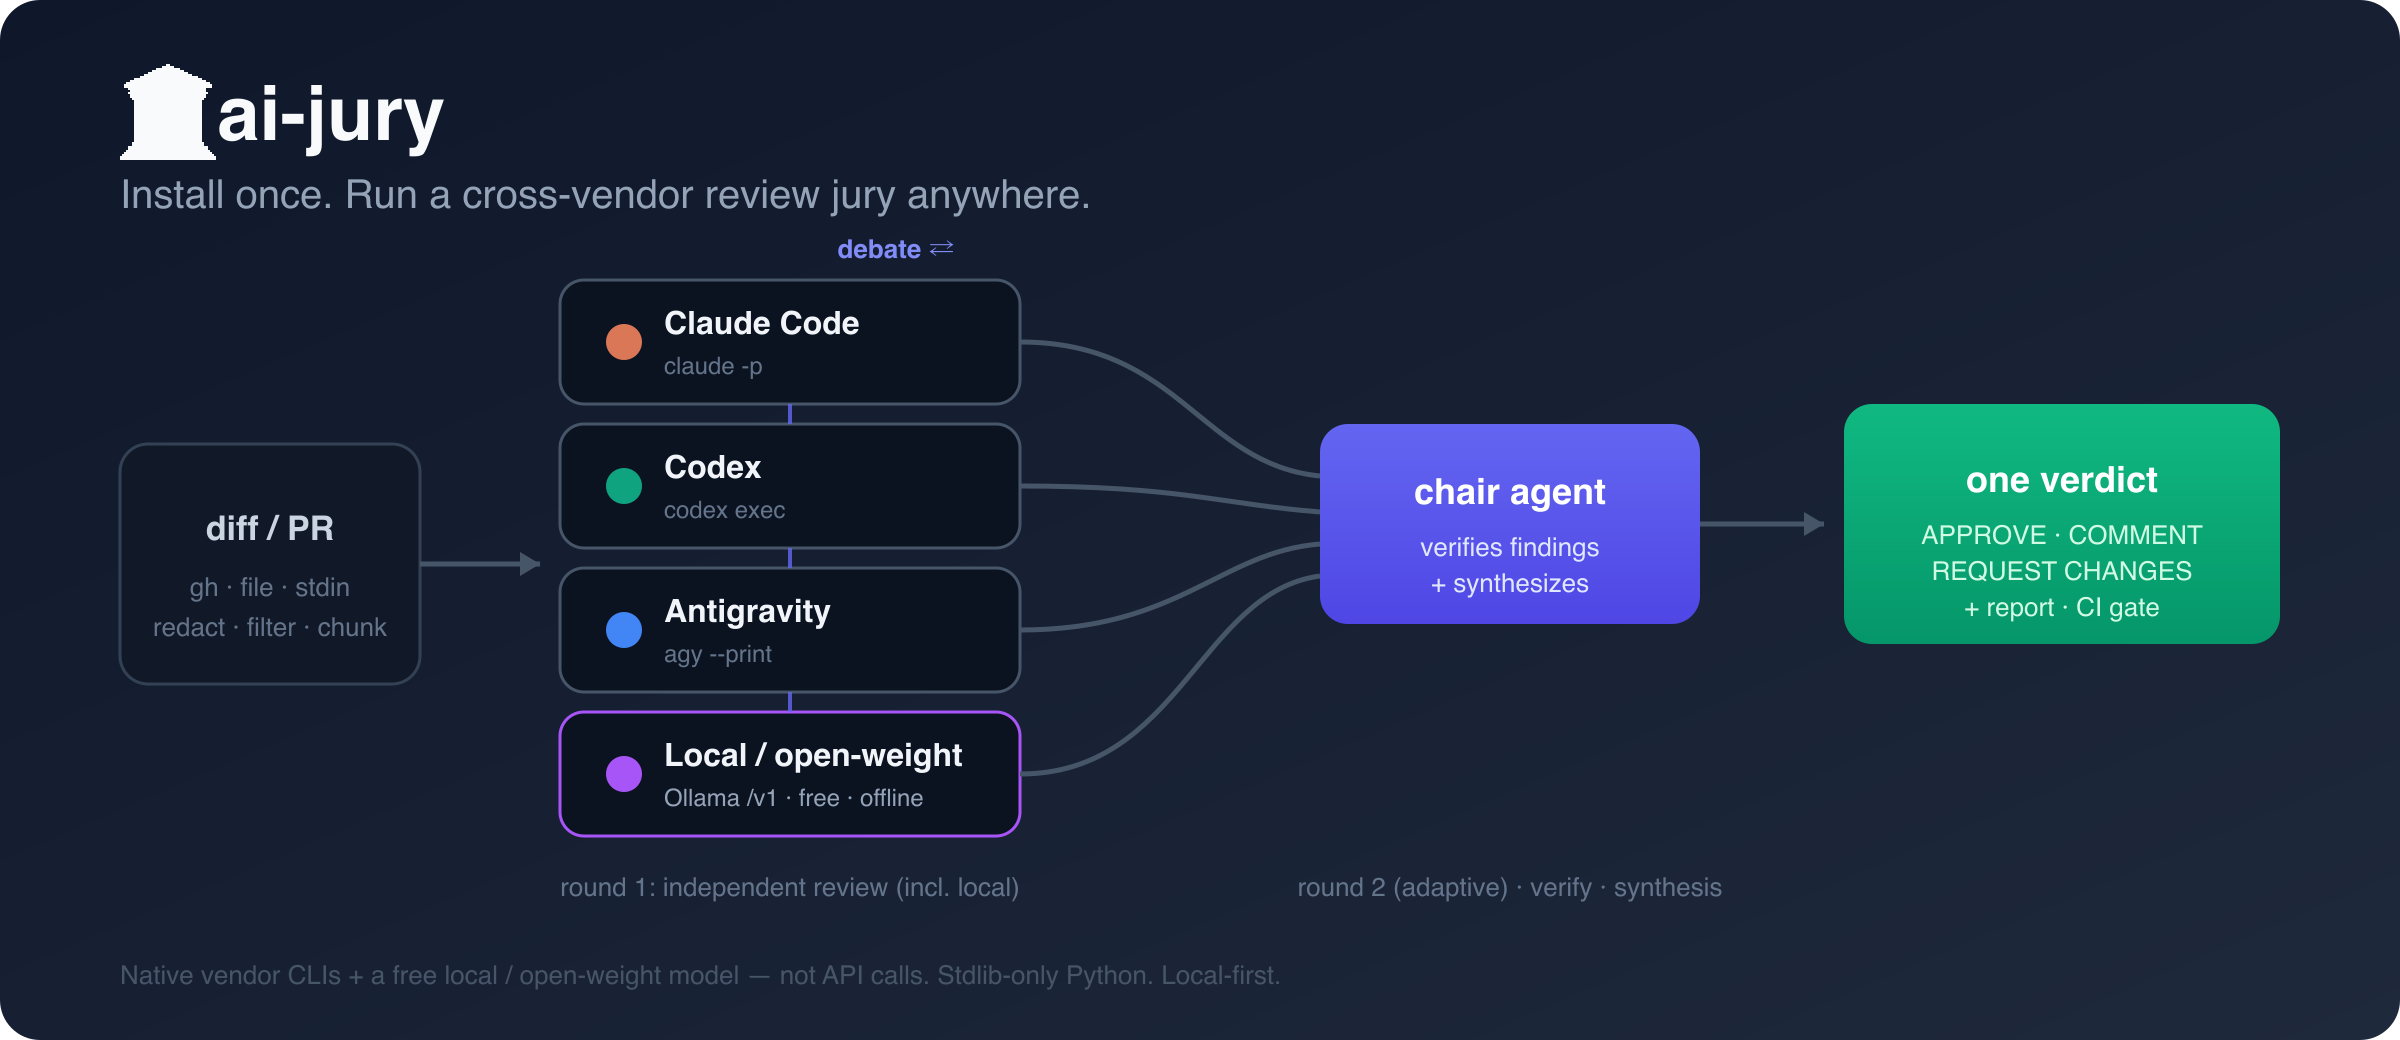
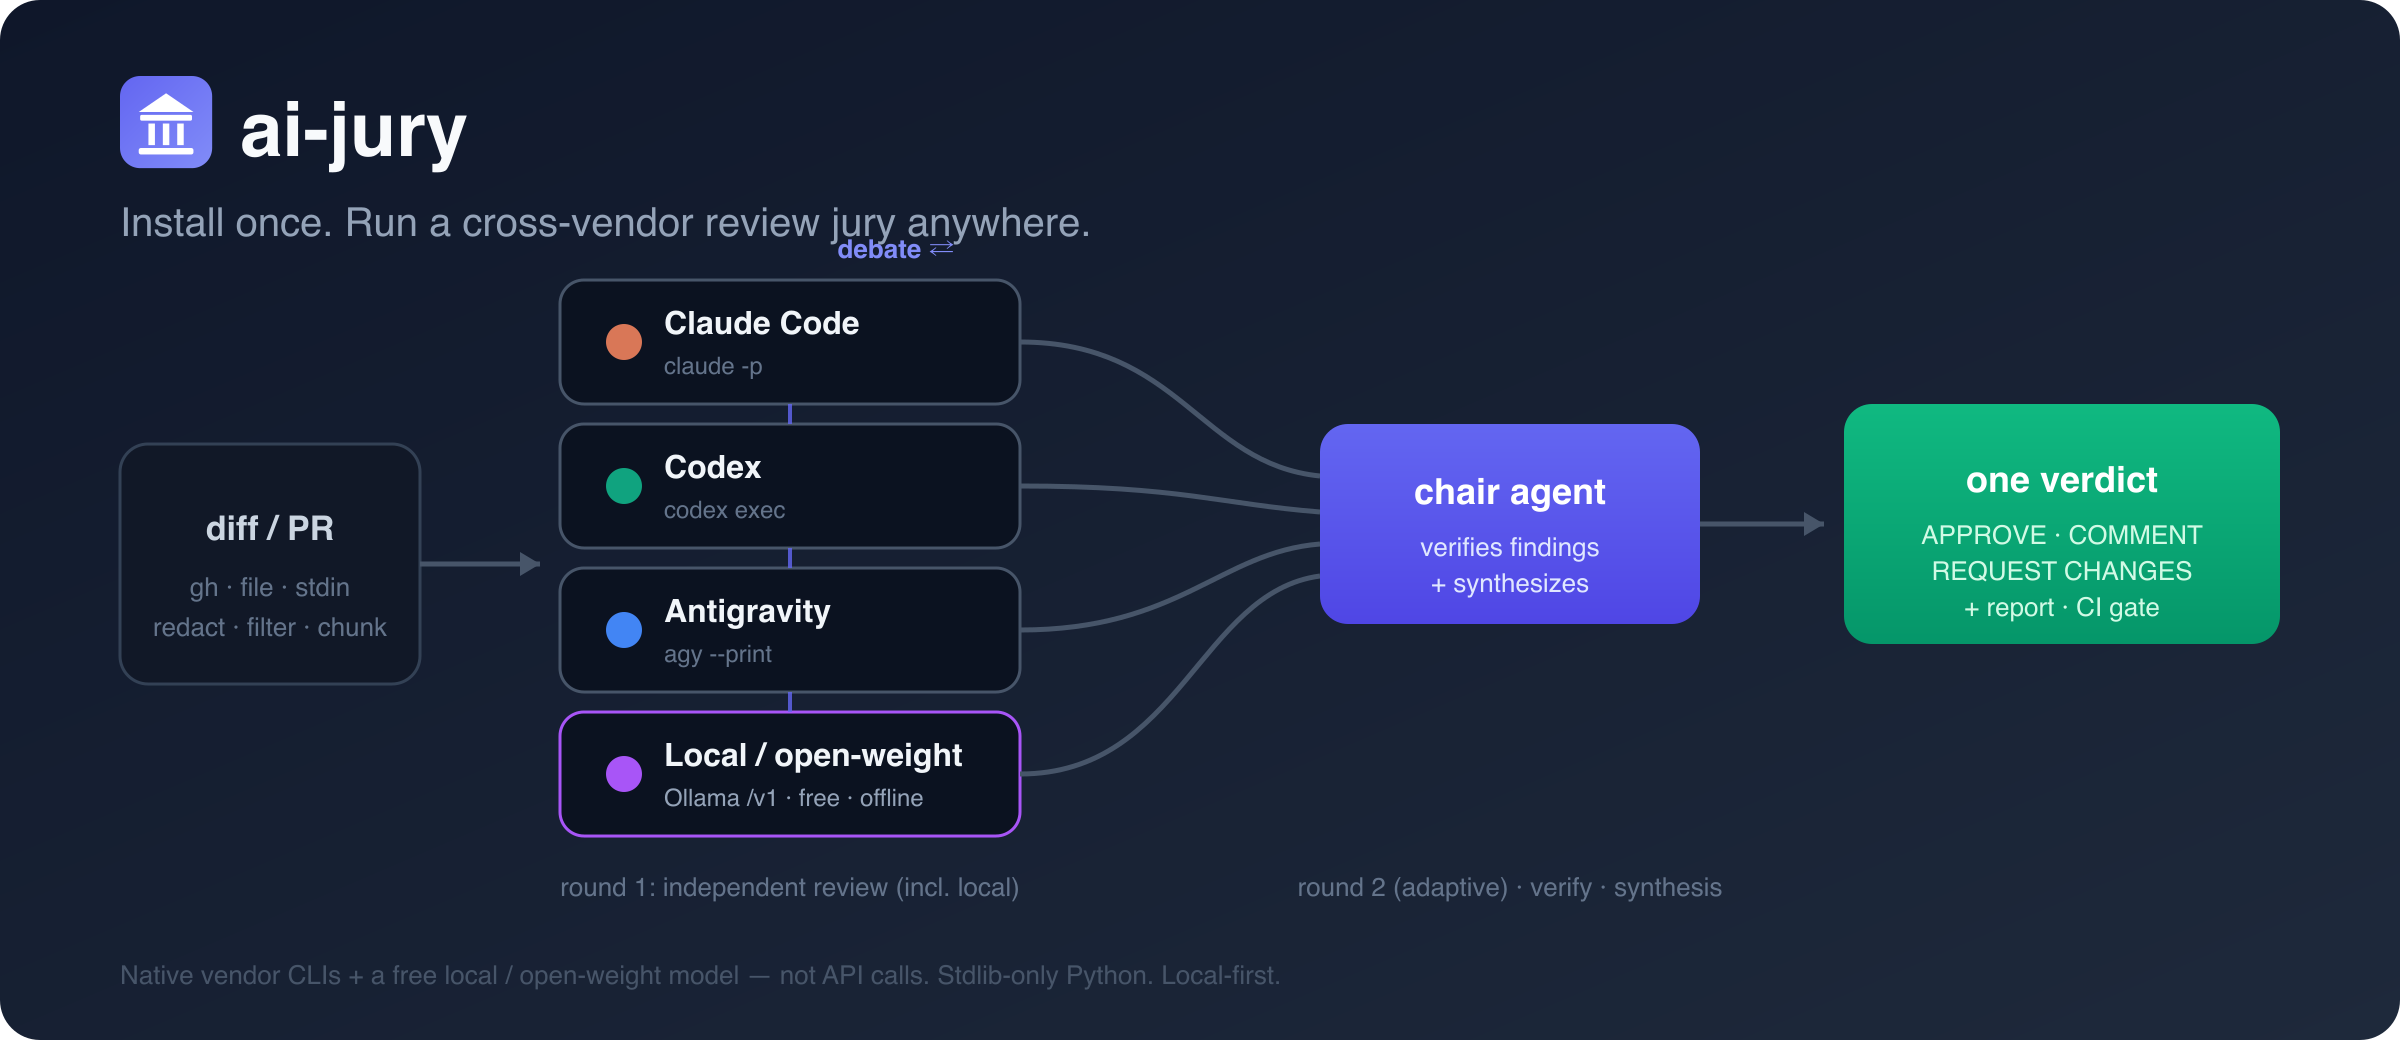
website/docs: config section, brand mark in hero+README, asset pipeline
Closes #133 and #132 (and finishes the launch polish).

- Brand mark: replace the 🏛 emoji with the custom favicon mark (indigo
  courthouse) in the hero wordmark, the site nav brand, and the README title —
  one consistent logo everywhere.
- Config discoverability (#133): new "Configuration" section on the homepage
  (set-up/inspect commands + an annotated jury.toml + reference link), wired into
  the nav (Demo / Config / GitHub).
- Asset pipeline (#132): `make assets` re-renders hero/banner/favicon PNGs from
  their SVG sources via rsvg-convert (deterministic — reproduces the committed
  PNGs), so the rasters can't drift from the vectors. Re-exported hero.png with
  the new mark.

Assets/website/docs only — no source changes. Deploys via pages.yml on merge.

Changed region(s): [[0.0312, 0.0615, 0.4688, 0.2462]]

diff --git a/website/index.html b/website/index.html
@@ -56,8 +56,12 @@
 <body>
   <header class="hero">
     <nav>
-      <span class="brand">🏛 ai-jury <a id="site-version" class="ver" href="https://github.com/berkayturanci/ai-jury/releases/latest">v1.0.0</a></span>
-      <a class="nav-link" href="https://github.com/berkayturanci/ai-jury">GitHub</a>
+      <span class="brand"><img class="brand-mark" src="favicon.svg" alt="" width="24" height="24" /> ai-jury <a id="site-version" class="ver" href="https://github.com/berkayturanci/ai-jury/releases/latest">v1.0.0</a></span>
+      <span class="nav-links">
+        <a class="nav-link" href="#demo">Demo</a>
+        <a class="nav-link" href="#config">Config</a>
+        <a class="nav-link" href="https://github.com/berkayturanci/ai-jury">GitHub</a>
+      </span>
     </nav>
 
     <div class="hero-inner">
@@ -194,6 +198,52 @@ jury --mock --diff-file examples/sample.diff   # offline demo, no live CLIs</cod
         (<code>claude</code>, <code>codex</code>, <code>agy</code>) or a free, offline
         local model via Ollama; missing/unreachable ones are skipped. <code>gh</code>
         is needed for <code>--pr</code>.
+      </p>
+    </section>
+
+    <section id="config">
+      <h2>Configuration</h2>
+      <p class="muted">
+        A run is driven by a <code>jury.toml</code> (or built-in defaults). Don't hand-write
+        it the first time — <strong>scaffold</strong> one, <strong>inspect</strong> what will
+        run, then go. Every field is in the
+        <a href="https://github.com/berkayturanci/ai-jury/blob/main/docs/configuration.md">configuration reference</a>.
+      </p>
+
+      <div class="config-grid">
+        <div>
+          <h3>Set up &amp; inspect</h3>
+          <pre><code>jury init                  # interactive scaffold
+jury init --preset balanced # or: offline | fast | thorough
+jury init --list-agents     # which CLIs are available
+jury init --list-models     # local (Ollama) models
+jury config show            # the effective resolved config
+jury --doctor               # readiness + next steps</code></pre>
+        </div>
+        <div>
+          <h3>A <code>jury.toml</code></h3>
+          <pre class="toml"><code>[jury]
+rounds = 2          # 1 = review only, 2 = + debate
+chair  = "claude"   # who synthesizes the verdict
+verify = true       # drop false positives
+# auto_depth = true # scale depth to the diff (--auto)
+
+[[agent]]
+name = "claude"
+vendor = "anthropic"
+command = "claude"
+
+[[agent]]              # free, offline reviewer
+name = "qwen"
+vendor = "local"
+model = "qwen2.5-coder:7b"
+endpoint = "http://localhost:11434/v1"</code></pre>
+        </div>
+      </div>
+      <p class="muted">
+        CLI flags override the file per run (e.g. <code>--rounds</code>, <code>--verify</code>,
+        <code>--auto</code>, <code>--chair</code>). Validate with
+        <code>jury --config-validate</code>; <code>--strict-config</code> turns warnings into errors.
       </p>
     </section>
 

diff --git a/website/style.css b/website/style.css
@@ -243,3 +243,13 @@ pre.toml { margin: 0; max-height: 360px; overflow: auto; }
 .gh-foot { color: var(--faint); font-size: 0.75rem; margin-top: 0.6rem; border-top: 1px solid var(--border); padding-top: 0.5rem; }
 
 @media (max-width: 760px) { .run-out { grid-template-columns: 1fr; } }
+
+/* ---- Brand mark + nav links ------------------------------------------ */
+.brand-mark { vertical-align: -5px; border-radius: 6px; }
+.nav-links { display: flex; gap: 1.1rem; align-items: center; }
+
+/* ---- Configuration section ------------------------------------------- */
+.config-grid { display: grid; grid-template-columns: 1fr 1fr; gap: 1rem; align-items: start; margin: 1rem 0; }
+.config-grid h3 { margin: 0 0 0.5rem; font-size: 1rem; }
+.config-grid pre { margin: 0; height: 100%; }
+@media (max-width: 760px) { .config-grid { grid-template-columns: 1fr; } }

diff --git a/README.md b/README.md
@@ -1,4 +1,4 @@
-# 🏛 ai-jury
+# <img src="website/favicon.svg" alt="" height="30" align="top"> ai-jury
 
 > Convene a **cross-vendor multi-agent review jury**: native coding-agent CLIs from
 > different vendors review the *same* pull request, cross-examine each other, and a
